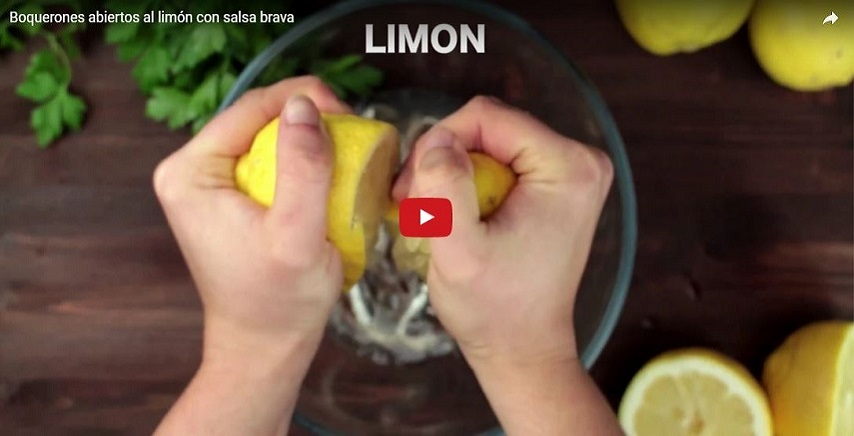
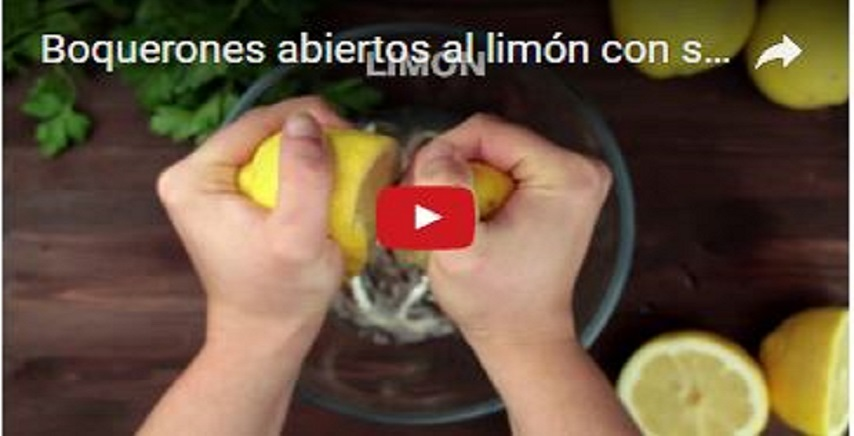
recipe page - responsive

diff --git a/single-recipe-wide.html b/single-recipe-wide.html
@@ -20,7 +20,7 @@
     <link rel="stylesheet" href="bootstrap-3.3.7-dist/css/bootstrap.min.css">
     <link rel="stylesheet" href="kartik-v-bootstrap-star-rating-a779c97/css/star-rating.css" type="text/css" media="all" />
     <link rel="stylesheet" href="https://fonts.googleapis.com/css?family=Montserrat">
-    <link rel="stylesheet" href="./fancybox-3/dist/jquery.fancybox.min.css" type="text/css" media="screen" />
+    <link rel="stylesheet" href="fancybox-3/dist/jquery.fancybox.min.css" type="text/css" media="screen" />
     <link rel="stylesheet" href="style.css" type="text/css">
 </head>
 
@@ -296,10 +296,6 @@
                             </ul>
                         </div>
                     </div>
-                    <!--<div class="shadow hidden">
-                        <div class="zoomed-img-wrap"></div>
-                    </div>-->
-
                     <script>
                         $(document).ready(function () {
                             $('.flexslider').flexslider({
@@ -317,7 +313,6 @@
                             });
 
                             //Fancybox - zoom images
-
                             $("a.elaboration-media").fancybox({
                                 'transitionIn': 'elastic',
                                 'transitionOut': 'elastic',
@@ -331,43 +326,6 @@
                         $("body:not(.navbar-toggler)").on("click", function () {
                             $("#navbar-collapse").collapse("hide");
                         });
-
-
-
-                        // $('.zoomify').on('click', function () {
-                        //     let imgSrc = $(this).attr('src');
-                        //     let imgAlt = $(this).attr('alt');
-                        //     let zoomedImg = $('<img>').attr('src', imgSrc)
-                        //         .attr('alt', imgAlt);
-                        //     let closeBtn = $('<span class="close-btn"><a href="#">X</a></span>');
-
-                        //     closeBtn.on('click', function (e) {
-                        //         $('.shadow').addClass('hidden');
-                        //         e.preventDefault();
-                        //     });
-
-                        //     $('.zoomed-img-wrap').empty().append(closeBtn).append(zoomedImg);
-
-                        //     $('.shadow').removeClass('hidden');
-
-                        // });
-
-                        // Get a reference to the iframe document
-                        // let iframeDoc = $('#player_1').contents().get(0);
-
-                        // $(iframeDoc).bind('click', function( event ) {
-                        //     let video = iframeDoc.css({"width": 400, "height": 300});
-                        //     let closeBtn = $('<span class="close-btn"><a href="#">X</a></span>');
-
-                        //     closeBtn.on('click', function (e) {
-                        //         $('.shadow').addClass('hidden');
-                        //         e.preventDefault();
-                        //     });
-
-                        //     $('.zoomed-img-wrap').empty().append(closeBtn).append(video);
-
-                        //     $('.shadow').removeClass('hidden');
-                        // });
                     </script>
                     <div class="elaboration">
                         <ol class="elaboration-steps">
@@ -449,17 +407,19 @@
                     <div class="row">
                         <div class="recipe col col-sm-4">
                             <div class="recipe-media-wrap">
-                                <iframe src="https://www.youtube.com/embed/oX-TbLA-sMI" frameborder="0" allowfullscreen></iframe>
+                                <a class="similar-recipe-media" data-fancybox data-type="iframe" data-src="https://www.youtube.com/embed/uxoJMnp43OA?autoplay=1">
+                                    <img src="imgs/Capture-9.jpg" alt="video_2" />
+                                </a>
                             </div>
                             <div class="similar-recipe-description-wrap">
-                                <h5><a href="#">Pollo crujiente al horno con queso fundido</a></h5>
+                                <h5><a href="#">Espaguetis con gambas al horno</a></h5>
                                 <input id="similar-recipe-1-rating" name="similar-recipe-1-rating" class="rating rating-loading" data-size="xs" data-min="0"
                                     data-max="5" data-step="0.5" data-show-clear="false" data-show-caption="false">
                             </div>
                         </div>
                         <div class="recipe col col-sm-4">
                             <div class="recipe-media-wrap">
-                                <a href="#" class="darken">
+                                <a href="#" class="similar-recipe-media darken">
                                     <img src="./imgs/Capture-7.jpg" alt="subsrcibe">
                                 </a>
                             </div>
@@ -471,7 +431,9 @@
                         </div>
                         <div class="recipe col col-sm-4">
                             <div class="recipe-media-wrap">
-                                <iframe src="https://www.youtube.com/embed/KZTNb_s4CgM" frameborder="0" allowfullscreen></iframe>
+                                <a class="similar-recipe-media" data-fancybox data-type="iframe" data-src="https://www.youtube.com/embed/KZTNb_s4CgM?autoplay=1">
+                                    <img src="imgs/Capture-11.jpg" alt="video_3" />
+                                </a>
                             </div>
                             <div class="similar-recipe-description-wrap">
                                 <h5><a href="#">Receta Hamburguesa rellena de queso Mozzarella</a></h5>

diff --git a/recipes.html b/recipes.html
@@ -12,12 +12,14 @@
         crossorigin="anonymous"></script>
     <script src="bootstrap-3.3.7-dist/js/bootstrap.min.js"></script>
     <script src="kartik-v-bootstrap-star-rating-a779c97/js/star-rating.js" type="text/javascript"></script>
+    <script src="fancybox-3/dist/jquery.fancybox.min.js" type="text/javascript"></script>
 
     <link href="https://maxcdn.bootstrapcdn.com/font-awesome/4.7.0/css/font-awesome.min.css" rel="stylesheet" integrity="sha384-wvfXpqpZZVQGK6TAh5PVlGOfQNHSoD2xbE+QkPxCAFlNEevoEH3Sl0sibVcOQVnN"
         crossorigin="anonymous">
     <link rel="stylesheet" href="bootstrap-3.3.7-dist/css/bootstrap.min.css">
     <link href="kartik-v-bootstrap-star-rating-a779c97/css/star-rating.css" media="all" rel="stylesheet" type="text/css" />
     <link href="https://fonts.googleapis.com/css?family=Montserrat" rel="stylesheet">
+    <link rel="stylesheet" href="fancybox-3/dist/jquery.fancybox.min.css" type="text/css" media="screen" />
     <link rel="stylesheet" type="text/css" href="style.css">
 
     <!-- optionally if you need to use a theme, then include the theme file as mentioned below -->
@@ -141,22 +143,23 @@
             });
         </script>
     </header>
-    <div class="main">
-        <div class="subscribe-wrap">
-            <div class="container resizable">
-                <div class="row">
-                    <div class="message-wrap col col-sm-8">
-                        Lugar para el texto
-                    </div>
-                    <div class="subscribe-input-wrap col col-sm-4">
-                        Obtenga nuevas recetas cada semana
-                        <input type="text" id="input-name" class="form-control simplebox" placeholder="Nombre">
-                        <input type="text" id="input-email" class="form-control simplebox" placeholder="E-mail">
-                        <a class="btn-basic btn-subscribe" href="#">Suscribir</a>
-                    </div>
+
+    <div class="subscribe-wrap">
+        <div class="container resizable">
+            <div class="row">
+                <div class="message-wrap col col-sm-8">
+                    Lugar para el texto
+                </div>
+                <div class="subscribe-input-wrap col col-sm-4">
+                    Obtenga nuevas recetas cada semana
+                    <input type="text" id="input-name" class="form-control simplebox" placeholder="Nombre">
+                    <input type="text" id="input-email" class="form-control simplebox" placeholder="E-mail">
+                    <a class="btn-basic btn-subscribe" href="#">Suscribir</a>
                 </div>
             </div>
         </div>
+    </div>
+    <div class="main">
         <div class="container">
             <h2 class="heading center"><span>Nuestras recetas</span></h2>
             <div class="row">
@@ -177,7 +180,9 @@
                 <div class="row">
                     <div class="recipe col col-sm-4">
                         <div class="recipe-media-wrap">
-                            <iframe src="https://www.youtube.com/embed/_UA8CEV9T88" frameborder="0" allowfullscreen></iframe>
+                            <a class="recipe-media" data-fancybox data-type="iframe" data-src="https://www.youtube.com/embed/_UA8CEV9T88?autoplay=1">
+                                <img src="imgs/Capture-8.jpg" alt="video-1" />
+                            </a>
                         </div>
                         <div class="recipe-details-container">
                             <div class="recipe-details">
@@ -242,7 +247,9 @@
                     </div>
                     <div class="recipe col col-sm-4">
                         <div class="recipe-media-wrap">
-                            <iframe src="https://www.youtube.com/embed/uxoJMnp43OA" frameborder="0" allowfullscreen></iframe>
+                            <a class="recipe-media" data-fancybox data-type="iframe" data-src="https://www.youtube.com/embed/uxoJMnp43OA?autoplay=1">
+                                <img src="imgs/Capture-9.jpg" alt="video-2" />
+                            </a>
                         </div>
                         <div class="recipe-details-container">
                             <div class="recipe-details">
@@ -276,7 +283,9 @@
                 <div class="row">
                     <div class="recipe col col-sm-4">
                         <div class="recipe-media-wrap">
-                            <iframe src="https://www.youtube.com/embed/QXAfEaaH4EA" frameborder="0" allowfullscreen></iframe>
+                            <a class="recipe-media" data-fancybox data-type="iframe" data-src="https://www.youtube.com/embed/QXAfEaaH4EA?autoplay=1">
+                                <img src="imgs/Capture-10.jpg" alt="video-3" />
+                            </a>
                         </div>
                         <div class="recipe-details-container">
                             <div class="recipe-details">
@@ -309,7 +318,9 @@
                     </div>
                     <div class="recipe col col-sm-4">
                         <div class="recipe-media-wrap">
-                            <iframe src="https://www.youtube.com/embed/KZTNb_s4CgM" frameborder="0" allowfullscreen></iframe>
+                            <a class="recipe-media" data-fancybox data-type="iframe" data-src="https://www.youtube.com/embed/KZTNb_s4CgM?autoplay=1">
+                                <img src="imgs/Capture-11.jpg" alt="video-4" />
+                            </a>
                         </div>
                         <div class="recipe-details-container">
                             <div class="recipe-details">

diff --git a/style.css b/style.css
@@ -286,7 +286,11 @@ input[type="search"]:focus {
     height: 202px;
 }
 
-.recipe-media-wrap iframe, .recipe-media-wrap img {
+.recipe-media-wrap .recipe-media {
+    cursor: pointer;
+}
+
+.recipe-media-wrap img {
     display: block;
     height: 202px;
     width: 100%;  
@@ -300,11 +304,11 @@ input[type="search"]:focus {
 
 .recipe-media-wrap a.darken img {
     display: block;
-    -webkit-transition: all 0.2s linear;
-    -moz-transition: all 0.2s linear;
-    -ms-transition: all 0.2s linear;
-    -o-transition: all 0.2s linear;
-    transition: all 0.2s linear;
+    -webkit-transition: opacity 0.2s linear;
+    -moz-transition: opacity 0.2s linear;
+    -ms-transition: opacity 0.2s linear;
+    -o-transition: opacity 0.2s linear;
+    transition: opacity 0.2s linear;
 }
 
 .recipe-media-wrap a.darken:hover img {
@@ -843,6 +847,10 @@ input[type="search"]:focus {
     margin-top: 15px;
 }
 
+.similar-recipes-wide .similar-recipe-media {
+    cursor: pointer;
+}
+
 .similar-recipes-wide .similar-recipe-description-wrap {
     padding-bottom: 15px;
     border-bottom: 3px solid #d9d9d9;
@@ -900,6 +908,18 @@ input[type="search"]:focus {
     .subscribe-input-wrap {
         border-right: none;
     }
+
+    .recipe-details h5 {
+        min-height: 60px;
+    }
+
+    .recipe-media-wrap {
+        height: 165px;
+    }
+
+    .recipe-media-wrap img {
+        height: 165px;
+    }
 }
 
 /* Small */
@@ -910,6 +930,10 @@ input[type="search"]:focus {
 
     .visible-on-mobile {
         display: block;
+    }
+
+    h2 {
+        font-size: 25px;
     }
 
     .top-bar-wrap {
@@ -941,7 +965,40 @@ input[type="search"]:focus {
         border-right: none;
     }
 
-    
+    .main {
+        padding: 0 7%;
+        text-align: center;
+    }
+
+    .heading {
+        margin-top: 25px;
+    }
+
+    .recipe-media-wrap {
+        height: auto;
+    }
+
+    .recipe-media-wrap img {
+        height: auto;
+    }
+
+    .recipe-details-list {
+        text-align: start;
+    }
+
+    .recipe-details h5 {
+        height: auto;
+        min-height: initial;
+        padding-top: 20px;
+    }
+
+    .description-short {
+        height: auto;
+    }
+
+    .rating-container {
+        margin-bottom: 8px;
+    }
 }
 
 /* Extra small */
@@ -960,5 +1017,21 @@ input[type="search"]:focus {
 
     .top-bar-right {
         height: 44px;
+    }
+
+    .heading span {
+        padding: 0 65px;
+    }
+
+    .heading span:before, .heading span:after {
+        width: 50px;
+    }
+
+    .footer-links {
+        display: none;
+    }
+
+    .copyright {
+        font-size: 12px;
     }
 }
